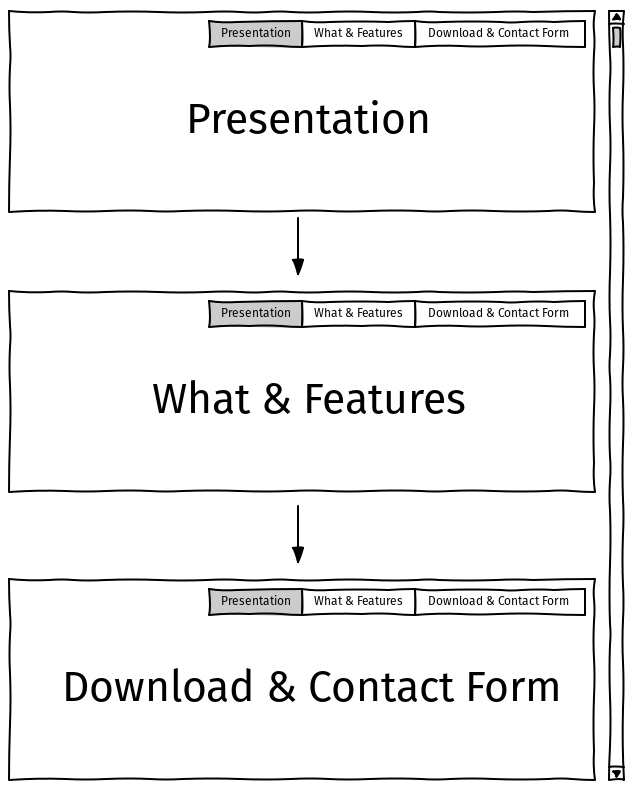
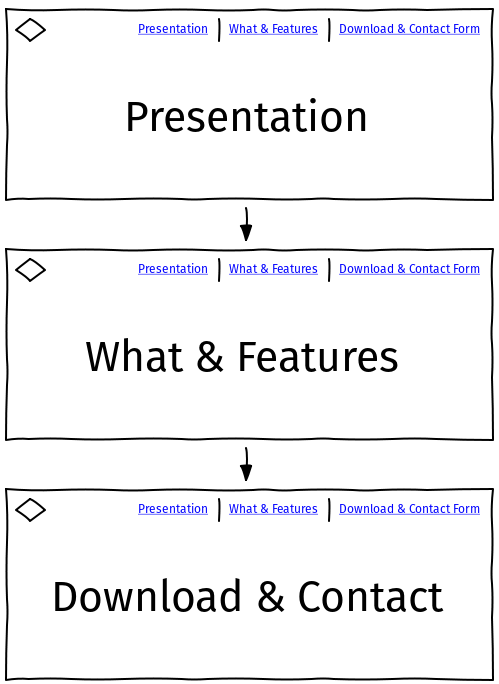
Adding Wireframes + README

diff --git a/css/main.css b/css/main.css
@@ -41,7 +41,7 @@
         min-height: 500px;
         background-image: url('../img/office2.jpg');
         background-size: cover;
-        background-position: center;
+        background-position: center; 
         background-repeat: no-repeat;
         color: #F3F0F1;
     }

diff --git a/wireframes/README.md b/wireframes/README.md
@@ -1,0 +1,65 @@
+Website for PaddyOS - Submission to my first project at [Code Insitute](https://codeinstitute.net)
+
+---
+
+<br><br>
+<img src="https://img.shields.io/github/last-commit/patrickpulfer/codeinsitute_usercentric_milestone_project?style=for-the-badge">
+<img src="https://img.shields.io/github/repo-size/patrickpulfer/codeinsitute_usercentric_milestone_project?style=for-the-badge">
+<img src="https://img.shields.io/github/languages/count/patrickpulfer/codeinsitute_usercentric_milestone_project?style=for-the-badge">
+
+<a href="">
+    <img src="../img/logo_paddy.png" alt="PaddyOS logo" title="PaddyOS" align="right" height="45" />
+</a>
+
+Note: PaddyOS is a fictional computer operating system. The aim of this project is to promote this software to the end user. 
+
+
+# Wireframes for PaddyOS Website
+
+## Basic Layout & Principles
+
+User Interface should be simple and focused on content, so I will leave areas untouched to avoid distractions.
+
+Website will be Mobile & Tablet friendly. Bootstrap will help us achieve the basic grid but adjustments with CSS will be required.
+
+<img src="./wireframe2.png">
+
+### Goal
+* Draw user attention to the middle of the screen, particularly:
+    * Branding (Logo & Name)
+    * Slogan
+    * "Learn More" & "Download" buttons
+
+### Desktop
+* Basic Navigation Bar with Logo, links to different sections and social media icons
+
+
+### Mobile
+* Majority of users are right handed, so we will move the menu "Burger" to the right
+
+## Decluttering Mobile view
+
+<img src="./wireframe3.png">
+
+<img src="./wireframe4.png">
+
+### Goal
+* Remove unecessary pictures in mobile view to ensure page does not have too much content
+* Shuffle Bootstrap Grid to ensure a consistent look
+
+## Download Section
+
+<img src="./wireframe5.png">
+
+### Goal
+* Emphasis on Release download as opposed to to Developer Edition
+* Registration for developers should occur in a modal, so it is hidden unless requested
+
+## Contact Us & Thank You section
+
+<img src="./wireframe6.png">
+
+### Goal
+* Thank the user for sending a message or submitting developer registration form
+* Navigate the user back from thank you page to main page
+

diff --git a/README.md b/README.md
@@ -62,7 +62,7 @@ To be adhere to the structure outlined above, the overall website should be divi
 
 <img src="./wireframes/wireframe1.png">
 
-To avoid a lenghty readme file, please visit [Wireframing Project PaddyOS Website](https://codeinstitute.net) for further study into the skeleton of the website.
+To avoid a lenghty readme file, please visit [Wireframing Project PaddyOS Website](./wireframes/README.md) for further study into the skeleton of the website.
 
 
 ### Surface Design
